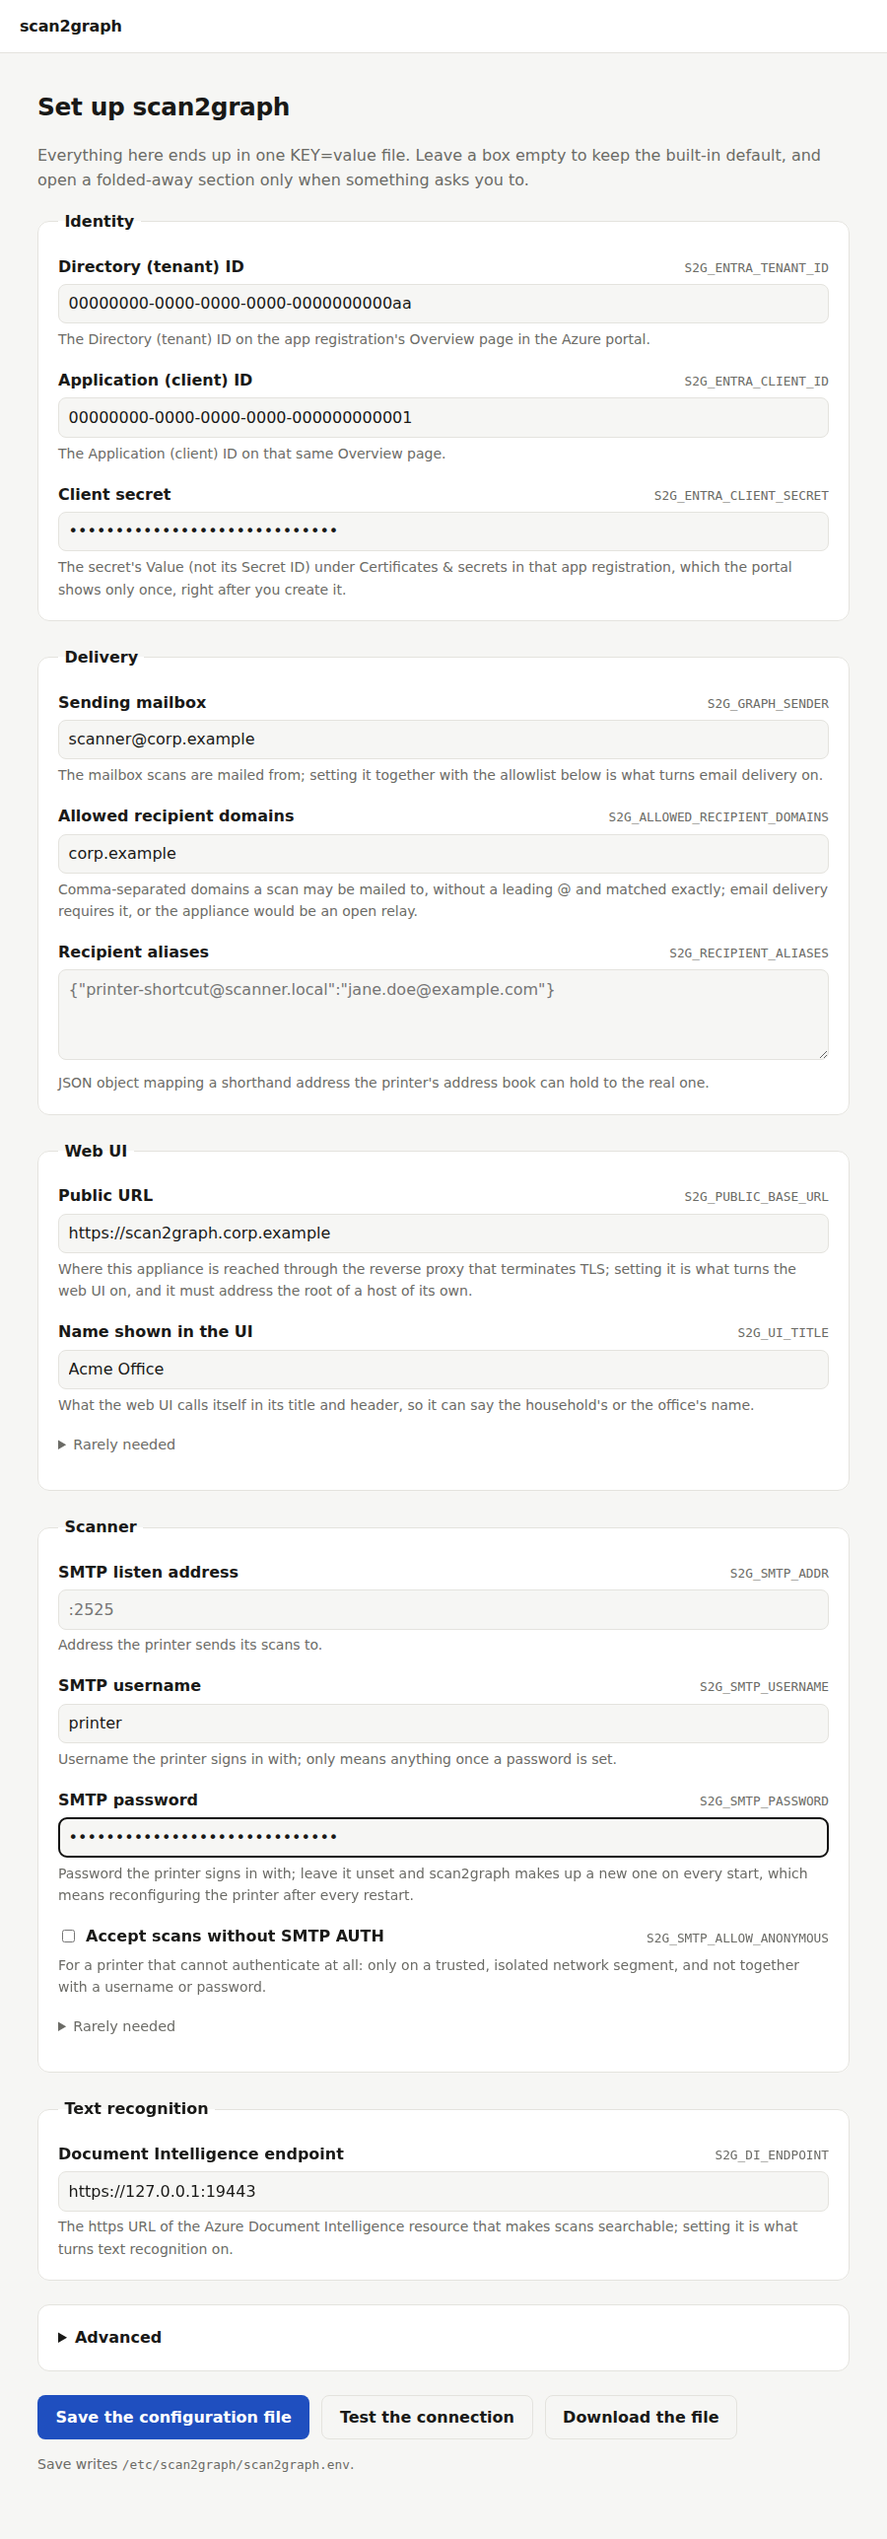
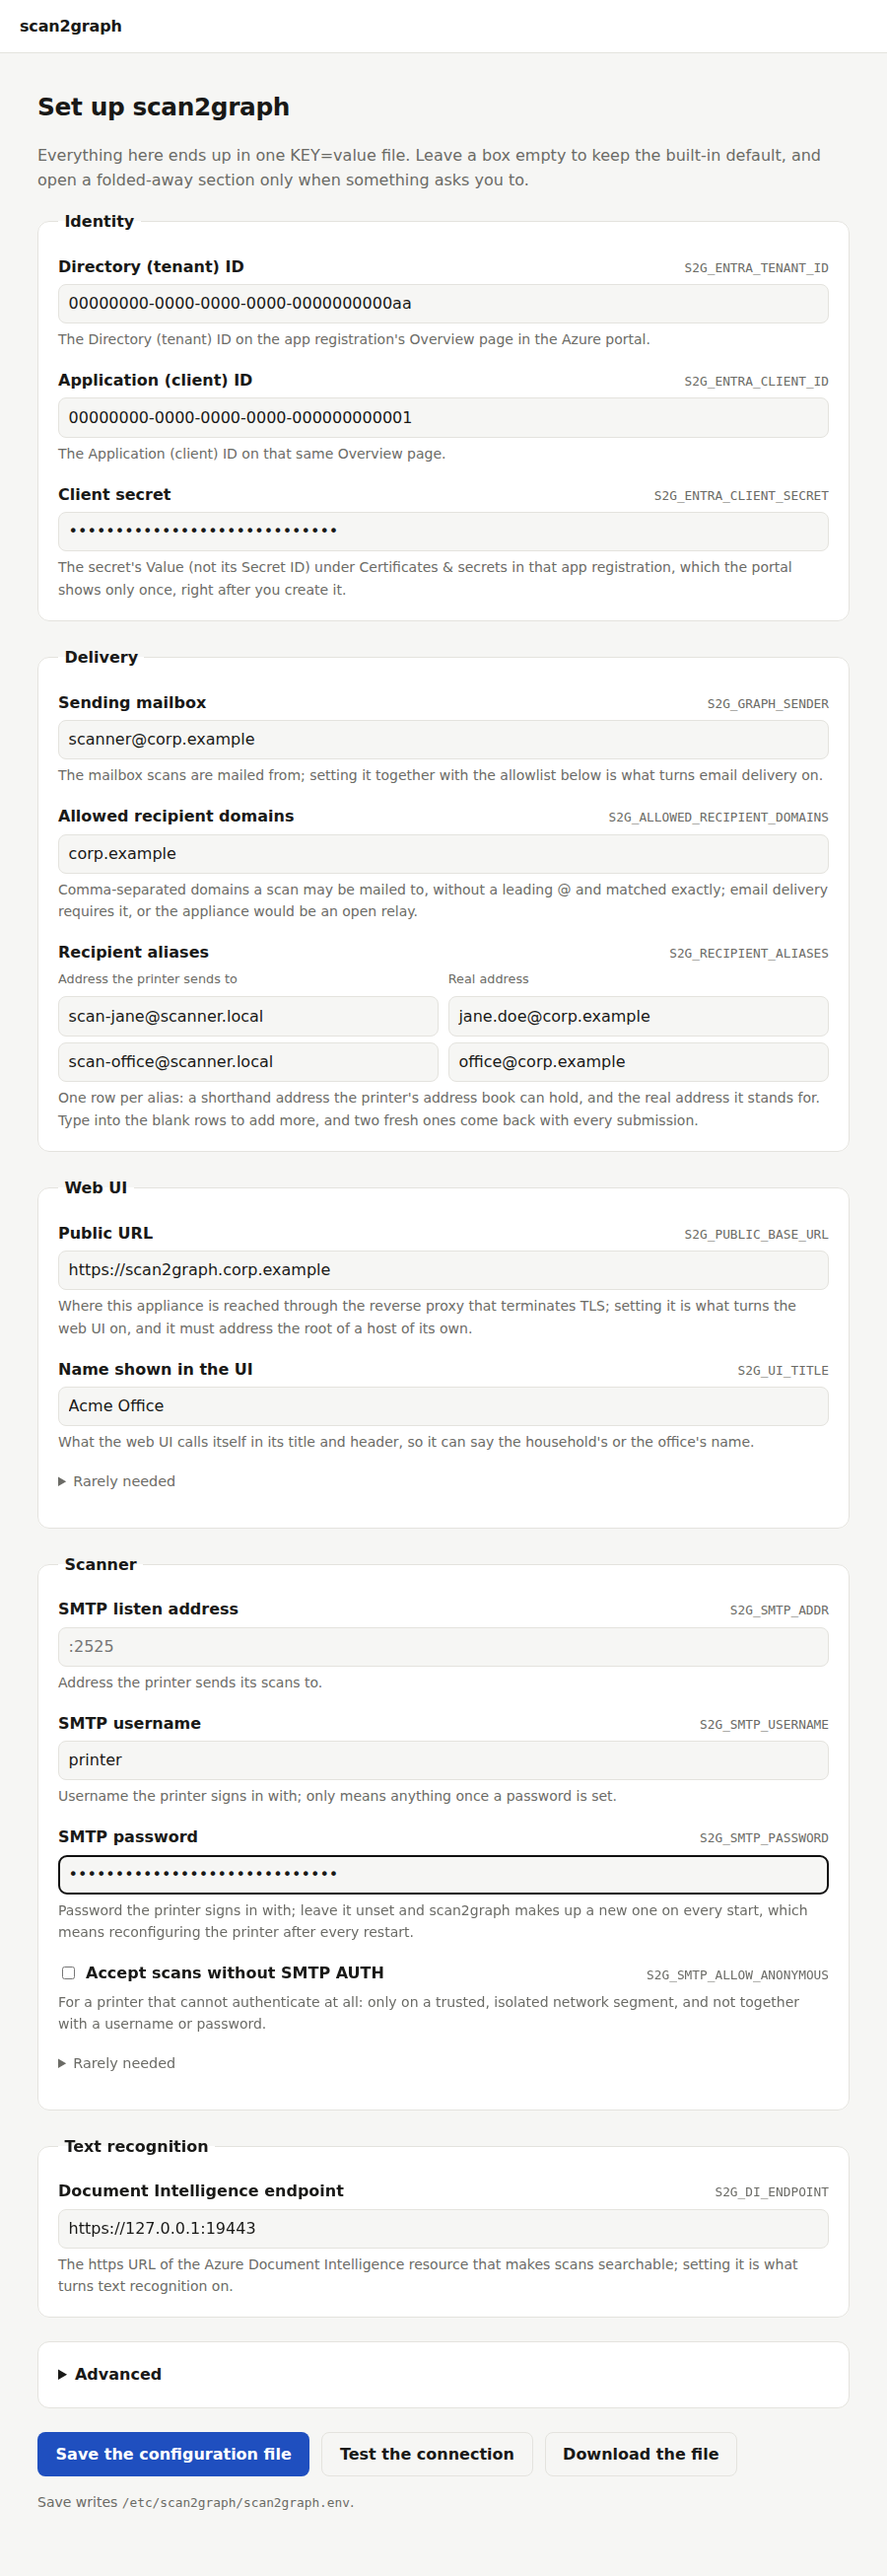
Prove the alias round trip once instead of twice
Two tests saved the same two rows in the same reversed order and each
re-proved that the keys come back sorted and the spare rows leave no
trace - one by reading the file, one by reopening the wizard. The round
trip already had to save, so it reads the file it wrote as well, and the
whole scaffolding of the second test goes.

The wizard's screenshot is regenerated for the same form, which now asks
for aliases in address boxes rather than a textarea.

Claude-Session: https://claude.ai/code/session_01KSSstcgZ1Ra5SUCiE1Kvy4

diff --git a/internal/web/setup_test.go b/internal/web/setup_test.go
@@ -983,29 +983,6 @@ func aliasRows(t *testing.T, body string) [][2]string {
 	return rows
 }
 
-// TestSetupAliasRowsFoldIntoJSON is the whole point of the pair editor: two
-// columns of address boxes come back as exactly the JSON object the loader
-// already parses, so nothing downstream knows the form changed. The keys come
-// out sorted because a map is what they are marshalled from - saving the same
-// aliases twice has to write the same file - and the spare rows nobody typed
-// into leave no trace.
-func TestSetupAliasRowsFoldIntoJSON(t *testing.T) {
-	path := filepath.Join(t.TempDir(), "scan2graph.env")
-	h := newSetupHarness(t, SetupOptions{Path: path})
-	form := validForm()
-	form[pairFrom] = []string{"scan-b@scanner.local", "scan-a@scanner.local", "", ""}
-	form[pairTo] = []string{" bob@example.com ", "alice@example.com", "", ""}
-	form.Set("action", "save")
-	if resp, body := h.post(h.claimed(), form); resp.StatusCode != http.StatusOK ||
-		!strings.Contains(body, "Saved") {
-		t.Fatalf("status %d, body:\n%s", resp.StatusCode, body)
-	}
-	const want = `{"scan-a@scanner.local":"alice@example.com","scan-b@scanner.local":"bob@example.com"}`
-	if got := loads(t, path)["S2G_RECIPIENT_ALIASES"]; got != want {
-		t.Errorf("S2G_RECIPIENT_ALIASES = %q, want %q", got, want)
-	}
-}
-
 // TestSetupAliasHalfRowIsNamed pins the one row the fold must not drop: an
 // operator who typed an alias and forgot its target would otherwise be told
 // the file was saved and find the address gone. The complaint lands under the
@@ -1033,21 +1010,30 @@ func TestSetupAliasHalfRowIsNamed(t *testing.T) {
 	}
 }
 
-// TestSetupAliasRoundTrip is the operator's whole loop: rows typed in, saved
-// to the file, and the wizard opened again on what it wrote showing the same
-// aliases - ordered by the address the printer sends to, and followed by the
-// two blank rows that are all there is to press instead of an "add" button.
+// TestSetupAliasRoundTrip is the operator's whole loop, and with it the whole
+// point of the pair editor: two columns of address boxes are saved as exactly
+// the JSON object the loader already parses, so nothing downstream knows the
+// form changed, and the wizard opened again on that file shows the same
+// aliases back. The keys come out sorted because a map is what they are
+// marshalled from - saving the same aliases twice has to write the same file -
+// the spare rows nobody typed into leave no trace, and a pasted address keeps
+// no whitespace. The two blank rows at the end are all there is to type into
+// instead of an "add" button.
 func TestSetupAliasRoundTrip(t *testing.T) {
 	path := filepath.Join(t.TempDir(), "scan2graph.env")
 	h := newSetupHarness(t, SetupOptions{Path: path})
 	c := h.claimed()
 	form := validForm()
-	form[pairFrom] = []string{"scan-b@scanner.local", "scan-a@scanner.local", ""}
-	form[pairTo] = []string{"bob@example.com", "alice@example.com", ""}
+	form[pairFrom] = []string{"scan-b@scanner.local", "scan-a@scanner.local", "", ""}
+	form[pairTo] = []string{" bob@example.com ", "alice@example.com", "", ""}
 	form.Set("action", "save")
 	if resp, body := h.post(c, form); resp.StatusCode != http.StatusOK ||
 		!strings.Contains(body, "Saved") {
 		t.Fatalf("status %d, body:\n%s", resp.StatusCode, body)
+	}
+	const wantJSON = `{"scan-a@scanner.local":"alice@example.com","scan-b@scanner.local":"bob@example.com"}`
+	if got := loads(t, path)["S2G_RECIPIENT_ALIASES"]; got != wantJSON {
+		t.Errorf("S2G_RECIPIENT_ALIASES = %q, want %q", got, wantJSON)
 	}
 	_, body := h.get(c, "/setup")
 	want := [][2]string{
